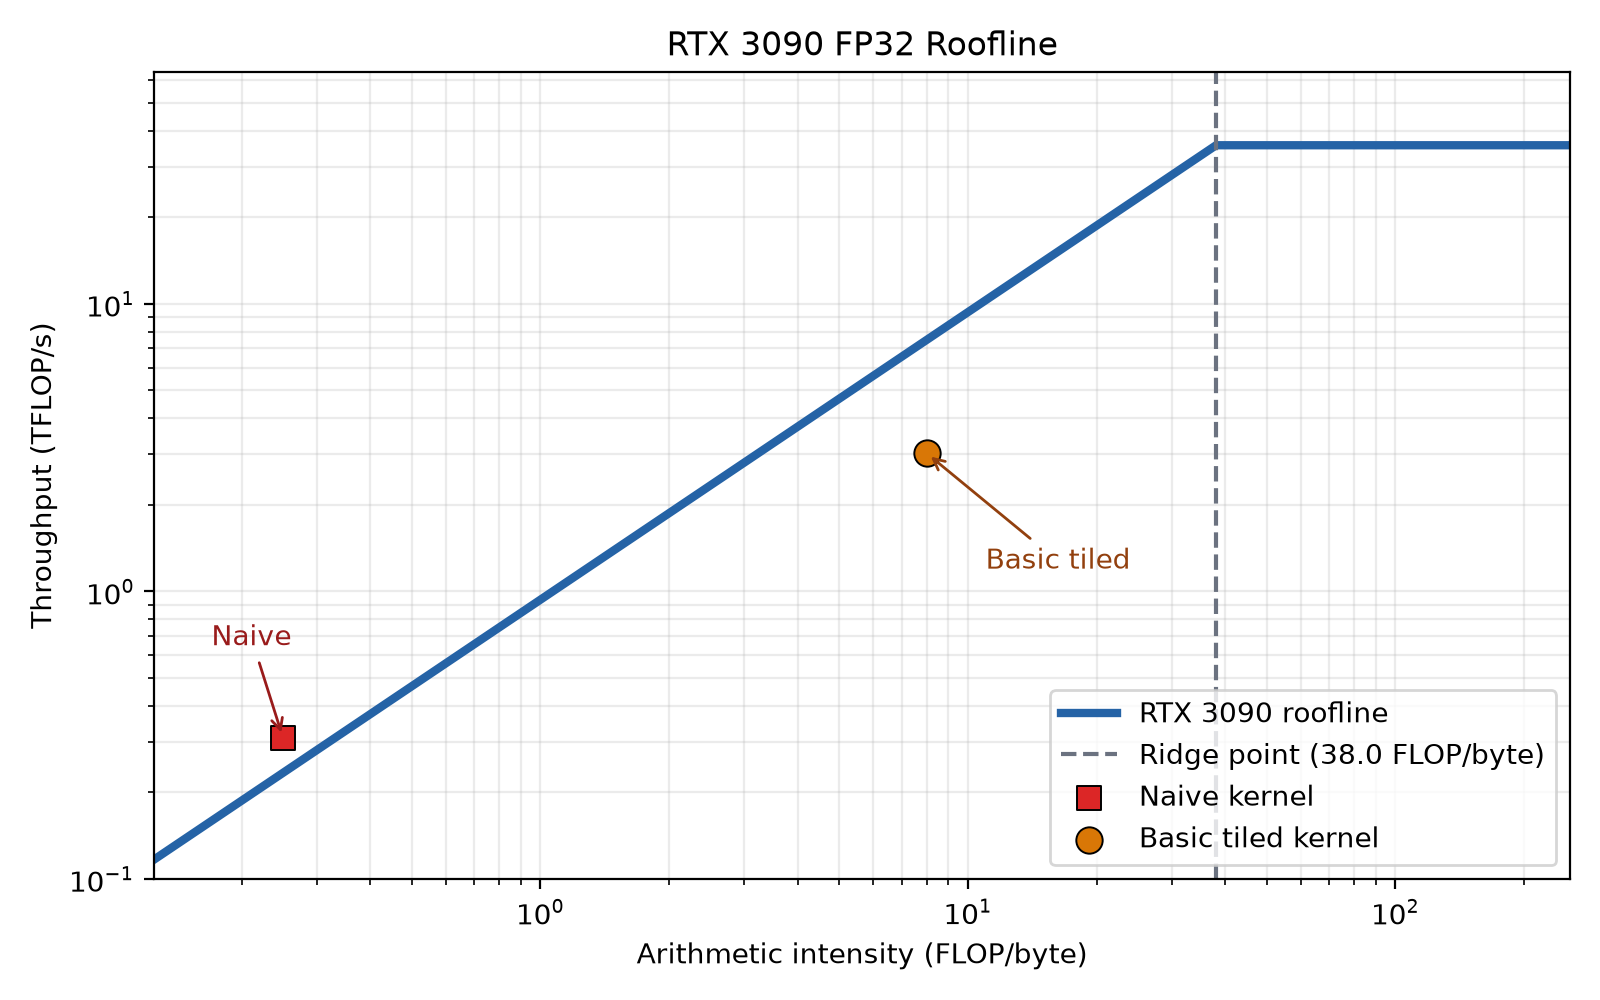
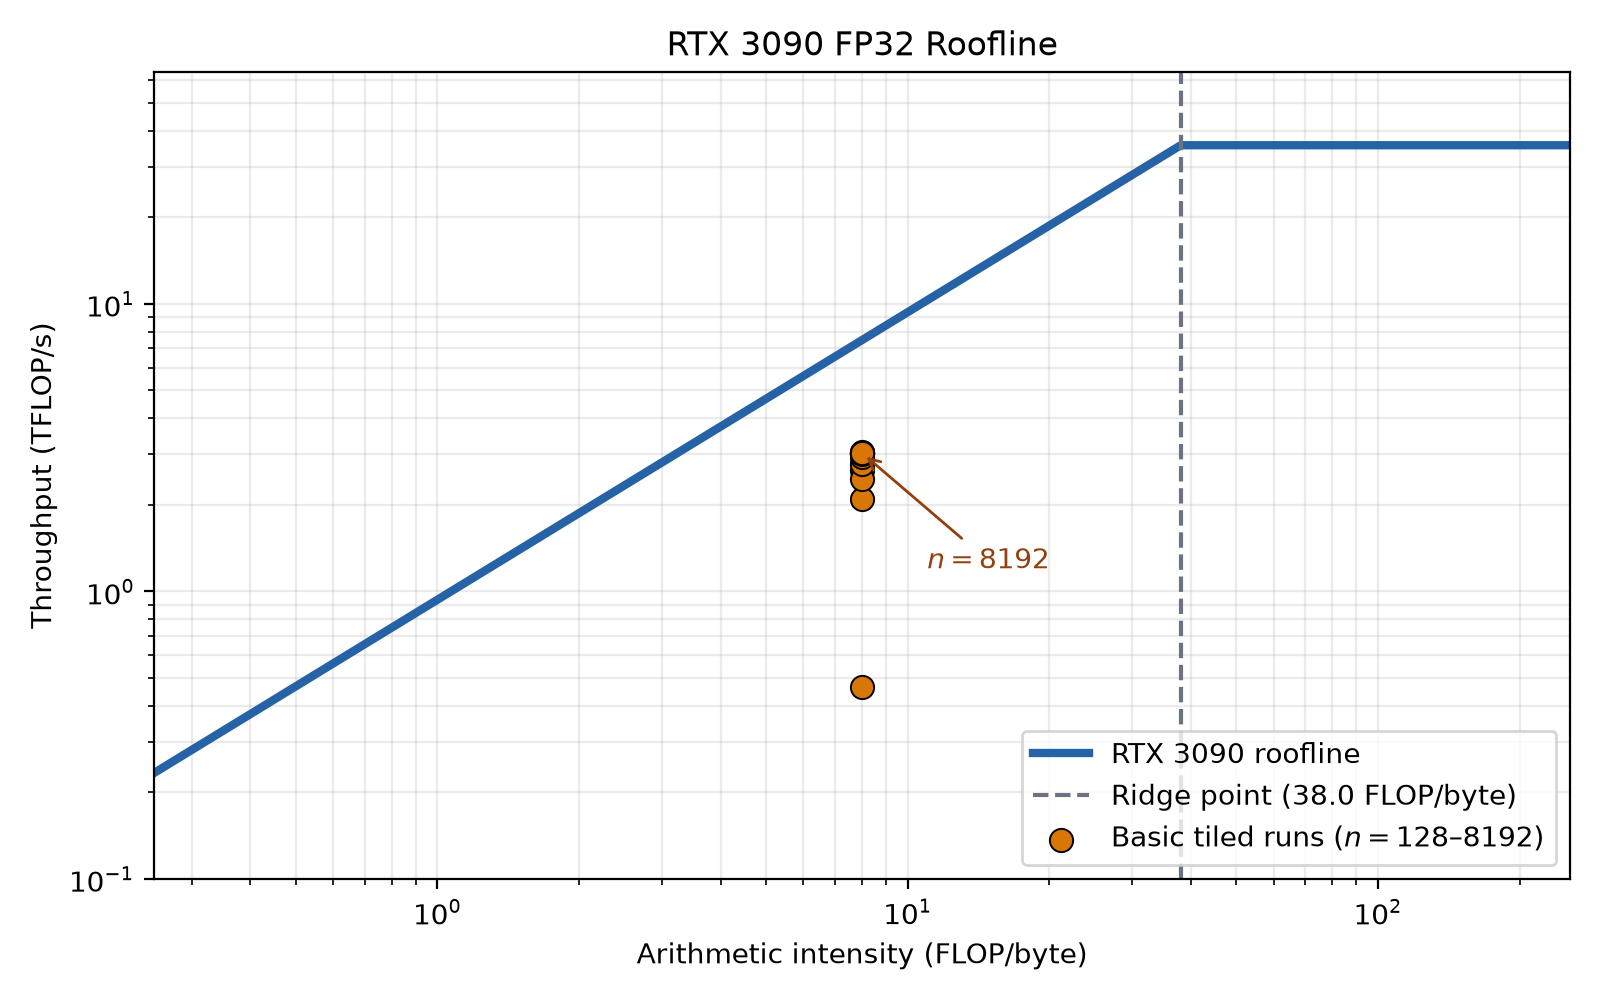
Plot tiled kernel runs on roofline

diff --git a/src/cs4630/plots.py b/src/cs4630/plots.py
@@ -144,16 +144,15 @@ def main():
     peak_tflops = 35.6
     bandwidth_tb_s = 0.936
     ridge_point = peak_tflops / bandwidth_tb_s
-    arithmetic_intensities = [2 ** (step / 16) for step in range(-48, 129)]
+    arithmetic_intensities = [2 ** (step / 16) for step in range(-32, 129)]
     roofline = [
         min(peak_tflops, bandwidth_tb_s * intensity)
         for intensity in arithmetic_intensities
     ]
-    naive_size = naive_sizes[-1]
-    naive_tflops = 2 * naive_size**3 / naive_latencies[-1] / 1e12
-    naive_intensity = 0.25
-    tiled_size = tiled_sizes[-1]
-    tiled_tflops = 2 * tiled_size**3 / tiled_latencies[-1] / 1e12
+    tiled_tflops = [
+        2 * size**3 / latency / 1e12
+        for size, latency in zip(tiled_sizes, tiled_latencies)
+    ]
     tiled_intensity = 8.0
 
     fig, axis = plt.subplots(figsize=(8, 5))
@@ -172,42 +171,24 @@ def main():
         label=f"Ridge point ({ridge_point:.1f} FLOP/byte)",
     )
     axis.scatter(
-        [naive_intensity],
-        [naive_tflops],
-        s=80,
-        marker="s",
-        color="#dc2626",
-        edgecolor="black",
-        linewidth=0.7,
-        zorder=3,
-        label="Naive kernel",
-    )
-    axis.scatter(
-        [tiled_intensity],
-        [tiled_tflops],
-        s=90,
+        [tiled_intensity] * len(tiled_tflops),
+        tiled_tflops,
+        s=70,
         marker="o",
         color="#d97706",
         edgecolor="black",
         linewidth=0.7,
         zorder=3,
-        label="Basic tiled kernel",
+        label="Basic tiled runs ($n=128$–$8192$)",
     )
     axis.annotate(
-        "Naive",
-        xy=(naive_intensity, naive_tflops),
-        xytext=(0.17, 0.65),
-        arrowprops={"arrowstyle": "->", "color": "#991b1b"},
-        color="#991b1b",
-    )
-    axis.annotate(
-        "Basic tiled",
-        xy=(tiled_intensity, tiled_tflops),
+        "$n=8192$",
+        xy=(tiled_intensity, tiled_tflops[-1]),
         xytext=(11, 1.2),
         arrowprops={"arrowstyle": "->", "color": "#92400e"},
         color="#92400e",
     )
-    axis.set_xlim(0.125, 256)
+    axis.set_xlim(0.25, 256)
     axis.set_ylim(0.1, 64)
     axis.set_xlabel("Arithmetic intensity (FLOP/byte)")
     axis.set_ylabel("Throughput (TFLOP/s)")

diff --git a/presentation/main.tex b/presentation/main.tex
@@ -790,28 +790,11 @@ for (int bkIdx = 0; bkIdx < K; bkIdx += BLOCKSIZE) {
   }
 
   \only<5>{
-    \begin{columns}[c,onlytextwidth]
-      \begin{column}{0.69\textwidth}
-        \centering
-        \includegraphics[width=\linewidth]{rtx3090_roofline.png}
-      \end{column}
-      \begin{column}{0.29\textwidth}
-        \centering
-        \textbf{At $n=8192$}
+    \centering
+    \includegraphics[width=0.9\textwidth]{rtx3090_roofline.png}
 
-        \medskip
-        \scriptsize
-        \setlength{\tabcolsep}{2pt}
-        \begin{tabular}{lrr}
-          \textbf{Kernel} & \textbf{AI} & \textbf{TFLOP/s} \\
-          Naive & 0.25 & 0.31 \\
-          Basic tiled & 8.0 & 3.03
-        \end{tabular}
-
-        \medskip
-        {\tiny AI is measured in FLOP/byte.}
-      \end{column}
-    \end{columns}
+    \small The tiled kernel's $8.0$ FLOP/byte is below the $38.0$ FLOP/byte
+    ridge point, so it remains memory-bound.
   }
 \end{frame}
 
